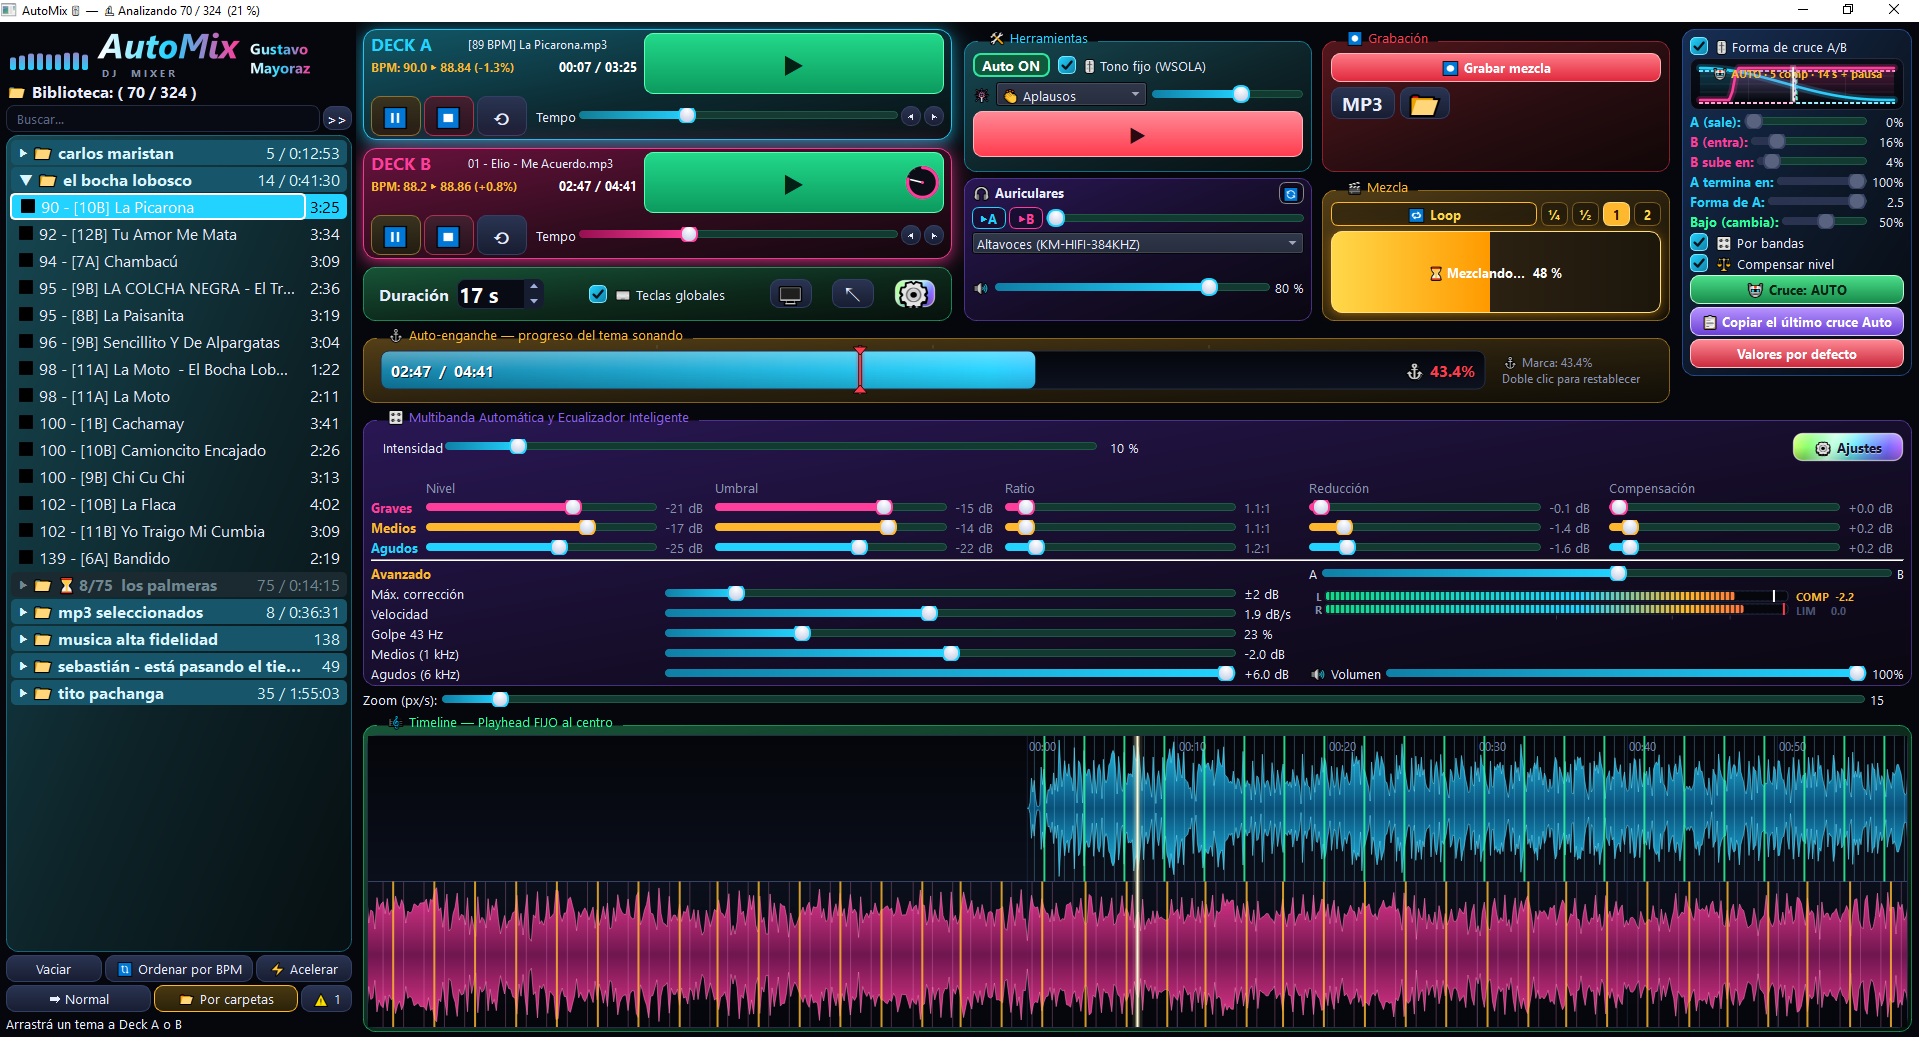
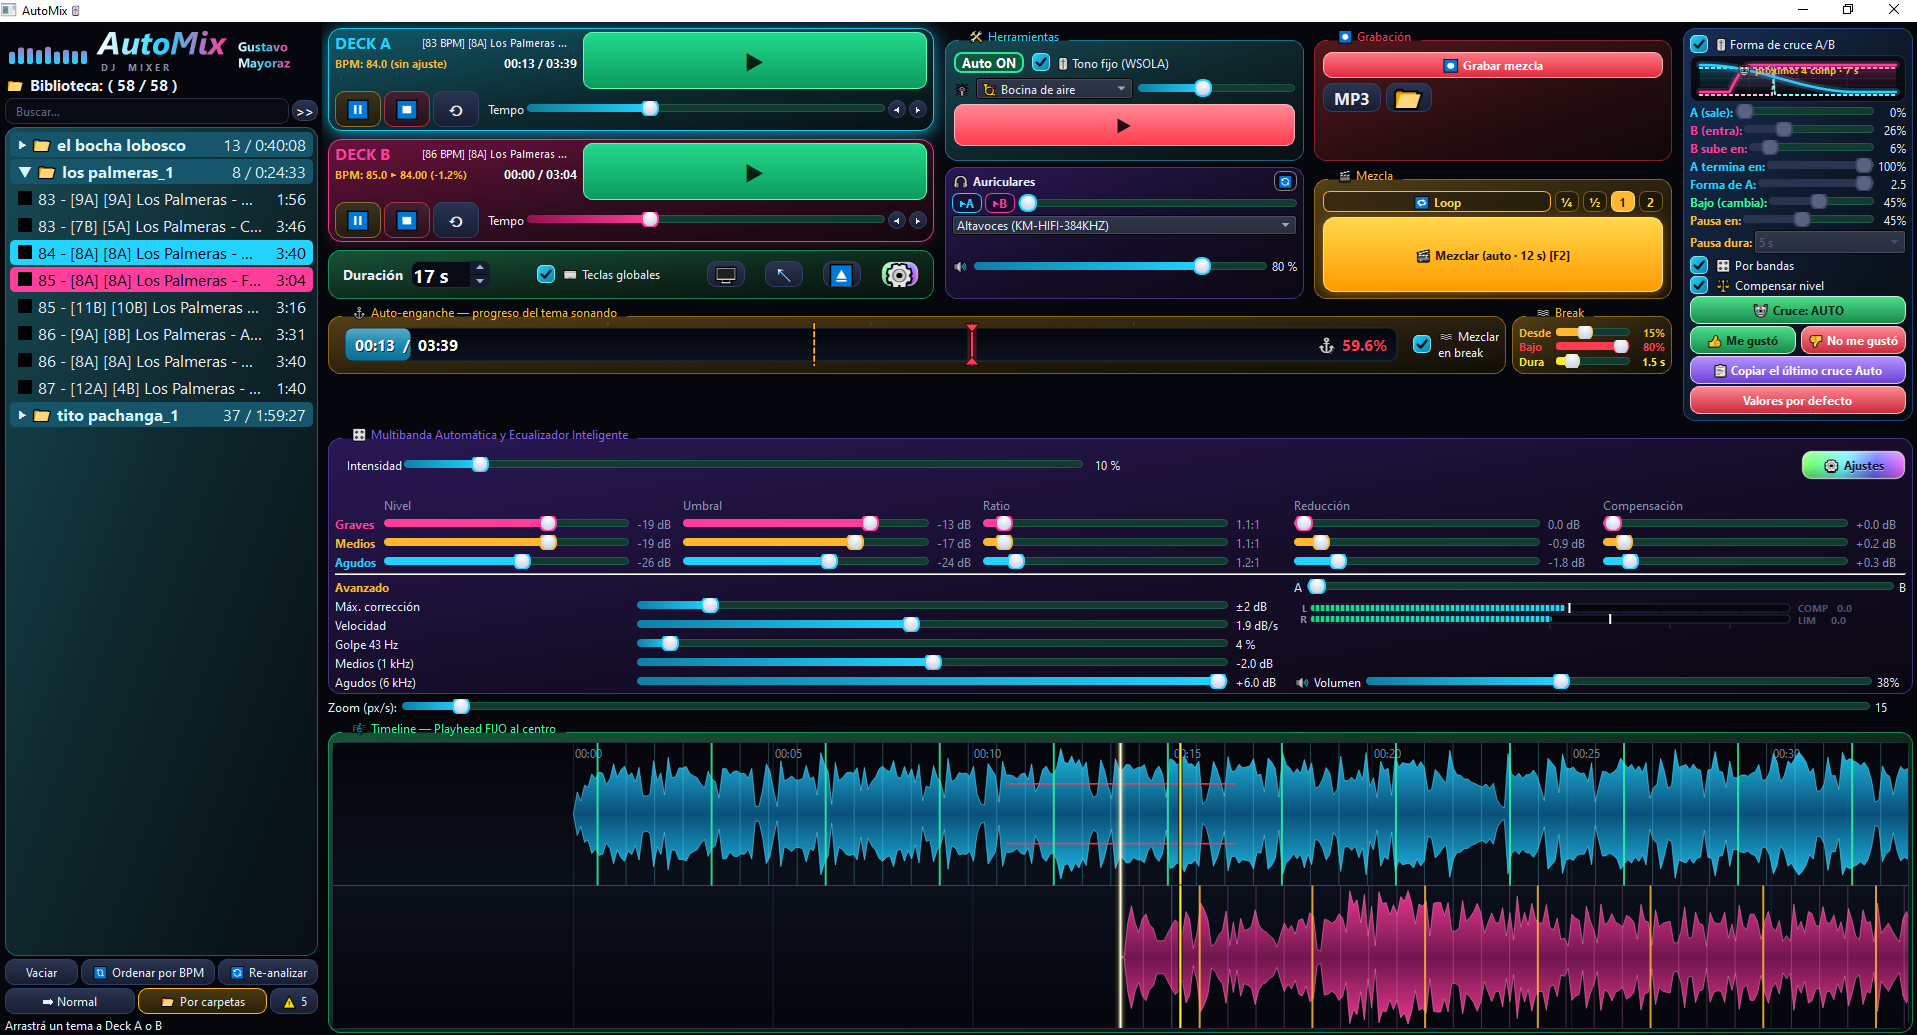
Lista: Supr apretado quita un tema tras otro; captura nueva en el README

diff --git a/setup/biblioteca.py b/setup/biblioteca.py
@@ -790,6 +790,7 @@ class Biblioteca(QListWidget):
             if r != QMessageBox.StandardButton.Yes:
                 return
         items = list(items.values())
+        siguiente = None if carpetas else self._tema_vecino(items)      # para seguir con Supr apretado: queda seleccionado el tema que seguía
         log("biblioteca", f"quitando {len(items)} tema(s)" + (f" · {len(carpetas)} carpeta(s)" if carpetas else ""))
         self._cargando = True
         try:
@@ -801,7 +802,33 @@ class Biblioteca(QListWidget):
             self._cargando = False
         if self.agrupado:
             self._quitar_cab(); self._poner_cab()
+        if siguiente:
+            self._seleccionar_ruta(siguiente)
         self.cambio.emit()
+
+    def _tema_vecino(self, quitados):
+        """Ruta del tema (no título de carpeta) que sigue al último de los quitados; si no hay, el que está justo antes."""
+        ids = {id(it) for it in quitados}
+        filas = [self.row(it) for it in quitados]
+        if not filas:
+            return None
+        despues = [self.item(i) for i in range(max(filas) + 1, self.count())]
+        antes = [self.item(i) for i in range(min(filas) - 1, -1, -1)]
+        for it in despues + antes:
+            if id(it) not in ids and not self._es_cab(it):
+                return it.data(Qt.ItemDataRole.UserRole)
+        return None
+
+    def _seleccionar_ruta(self, ruta):
+        """Deja seleccionado (y como actual) el tema de esa ruta, para que Supr siga quitando el que viene."""
+        for i in range(self.count()):
+            it = self.item(i)
+            if not self._es_cab(it) and it.data(Qt.ItemDataRole.UserRole) == ruta:
+                self.clearSelection()
+                self.setCurrentItem(it)
+                it.setSelected(True)
+                self.scrollToItem(it)
+                return
 
     def _menu_contextual(self, pos):
         """Clic derecho: quitar de la lista el tema (o toda la carpeta, si se toca su título)."""
